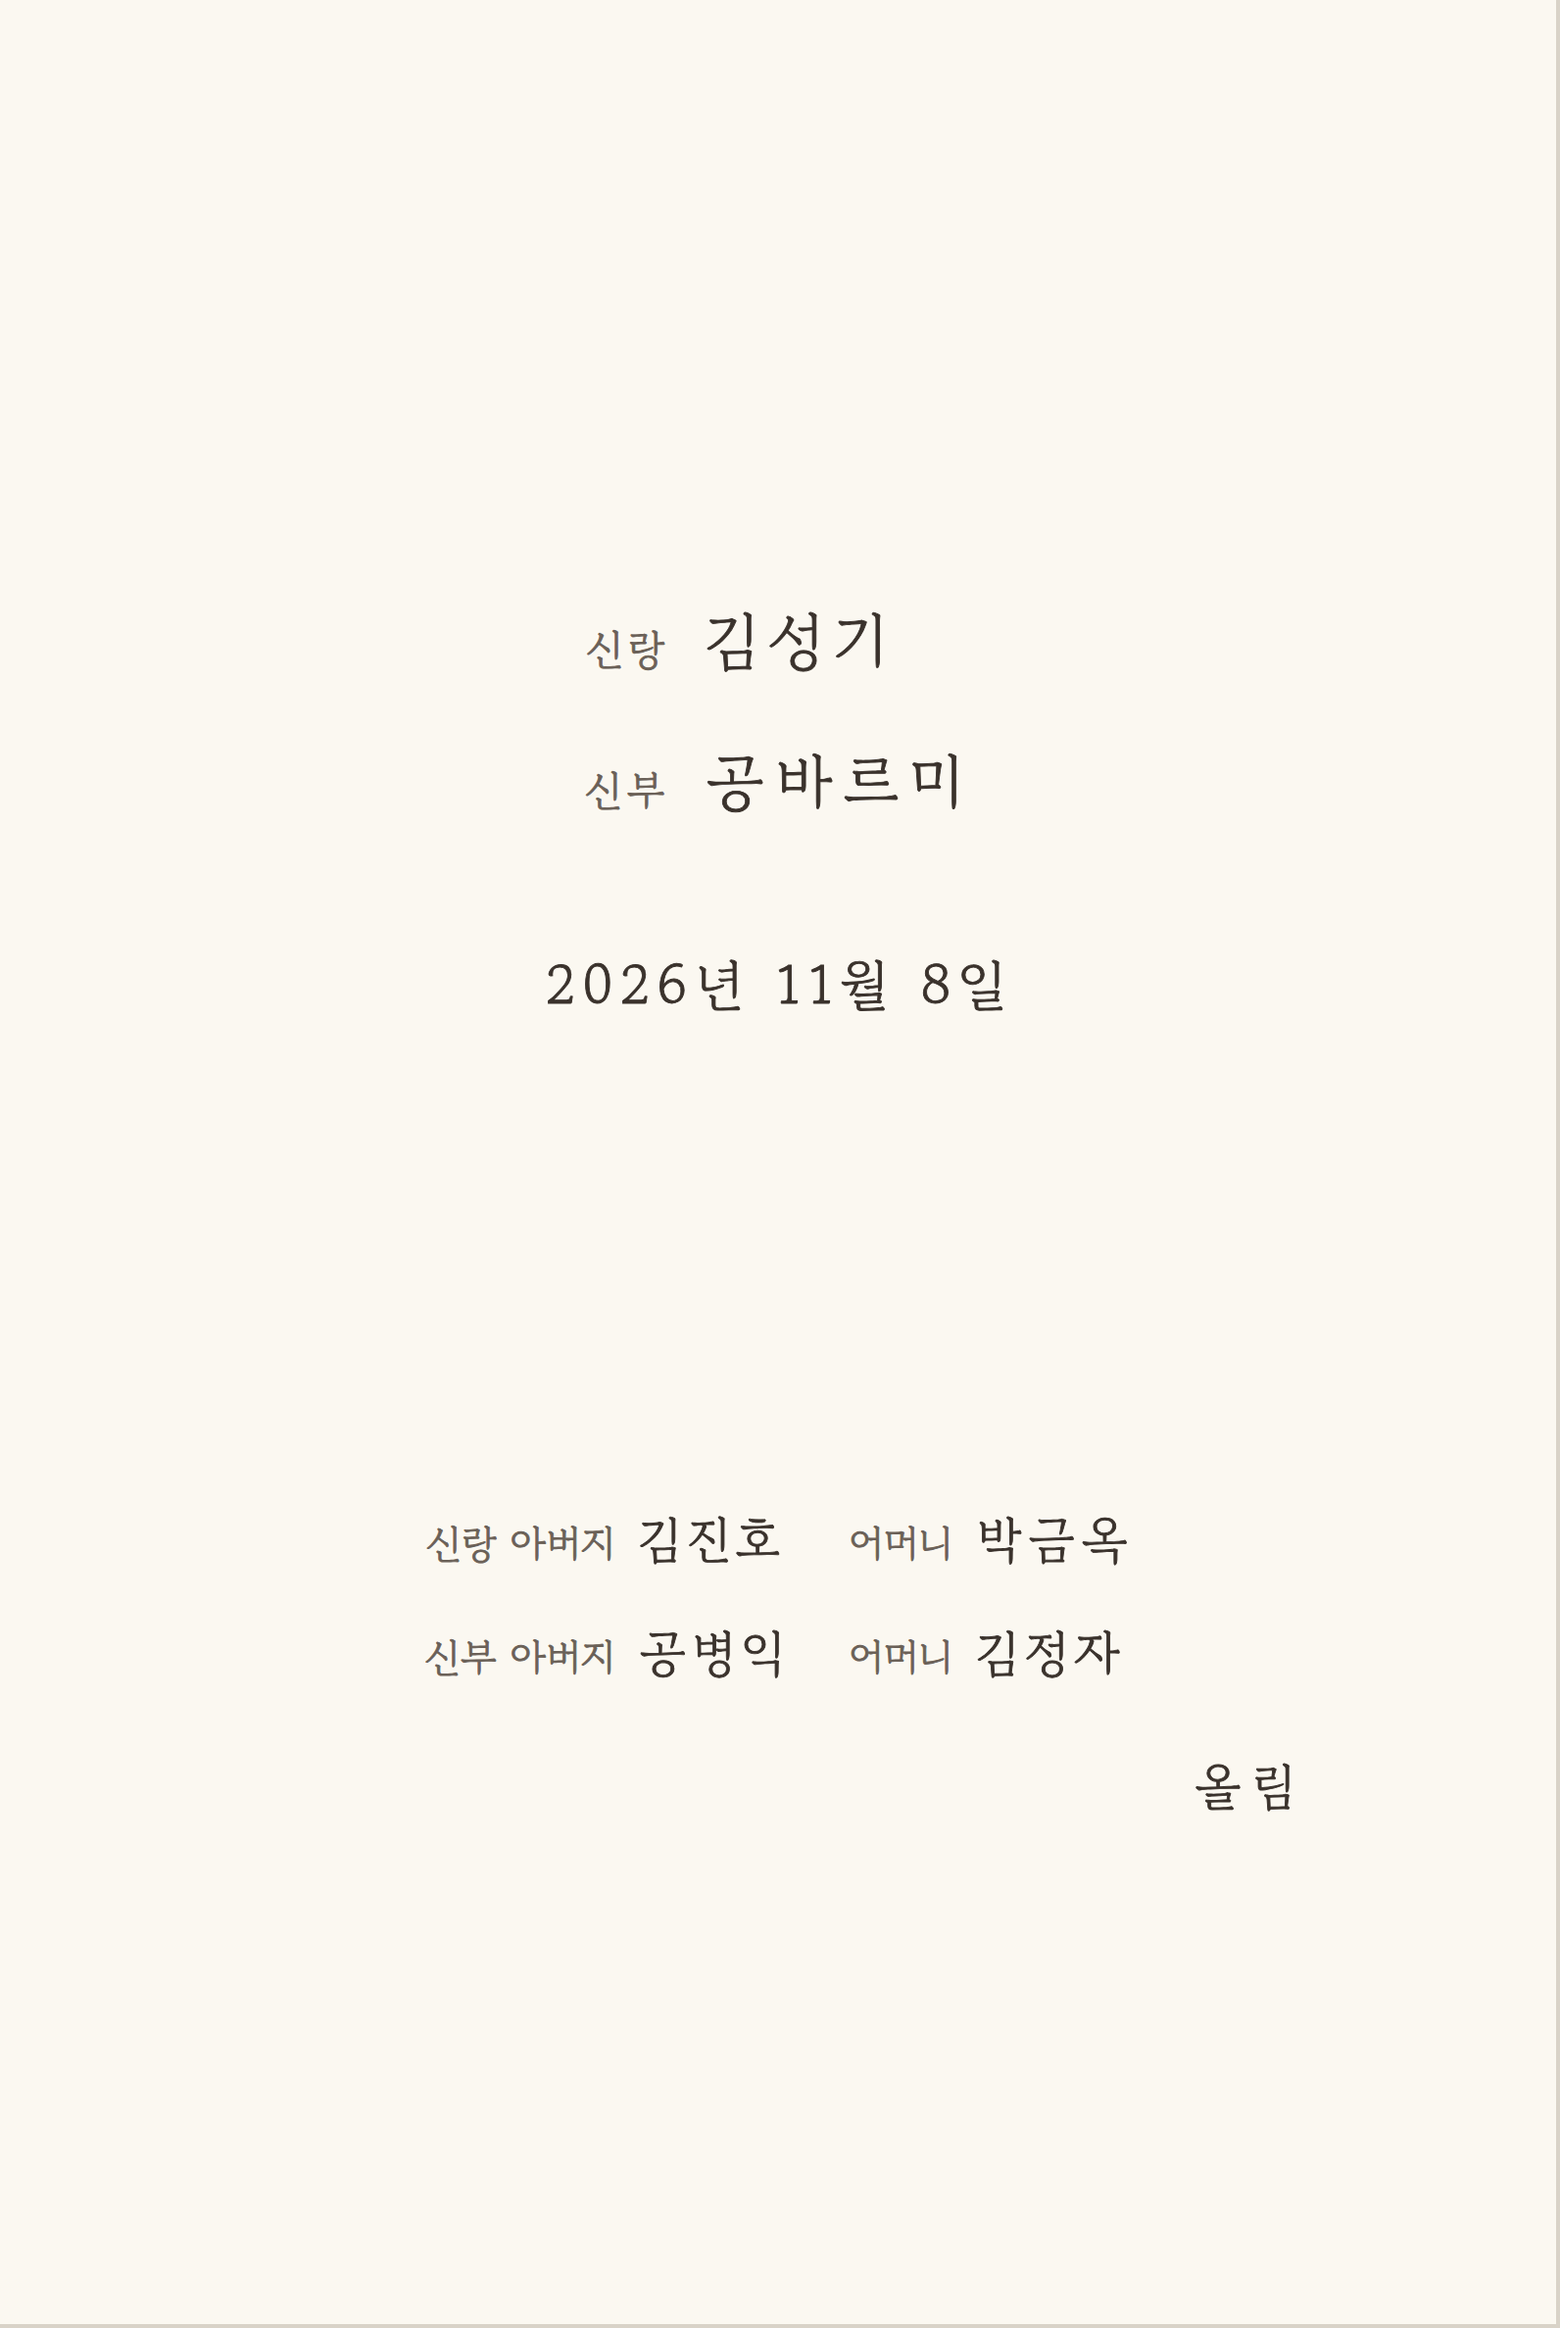
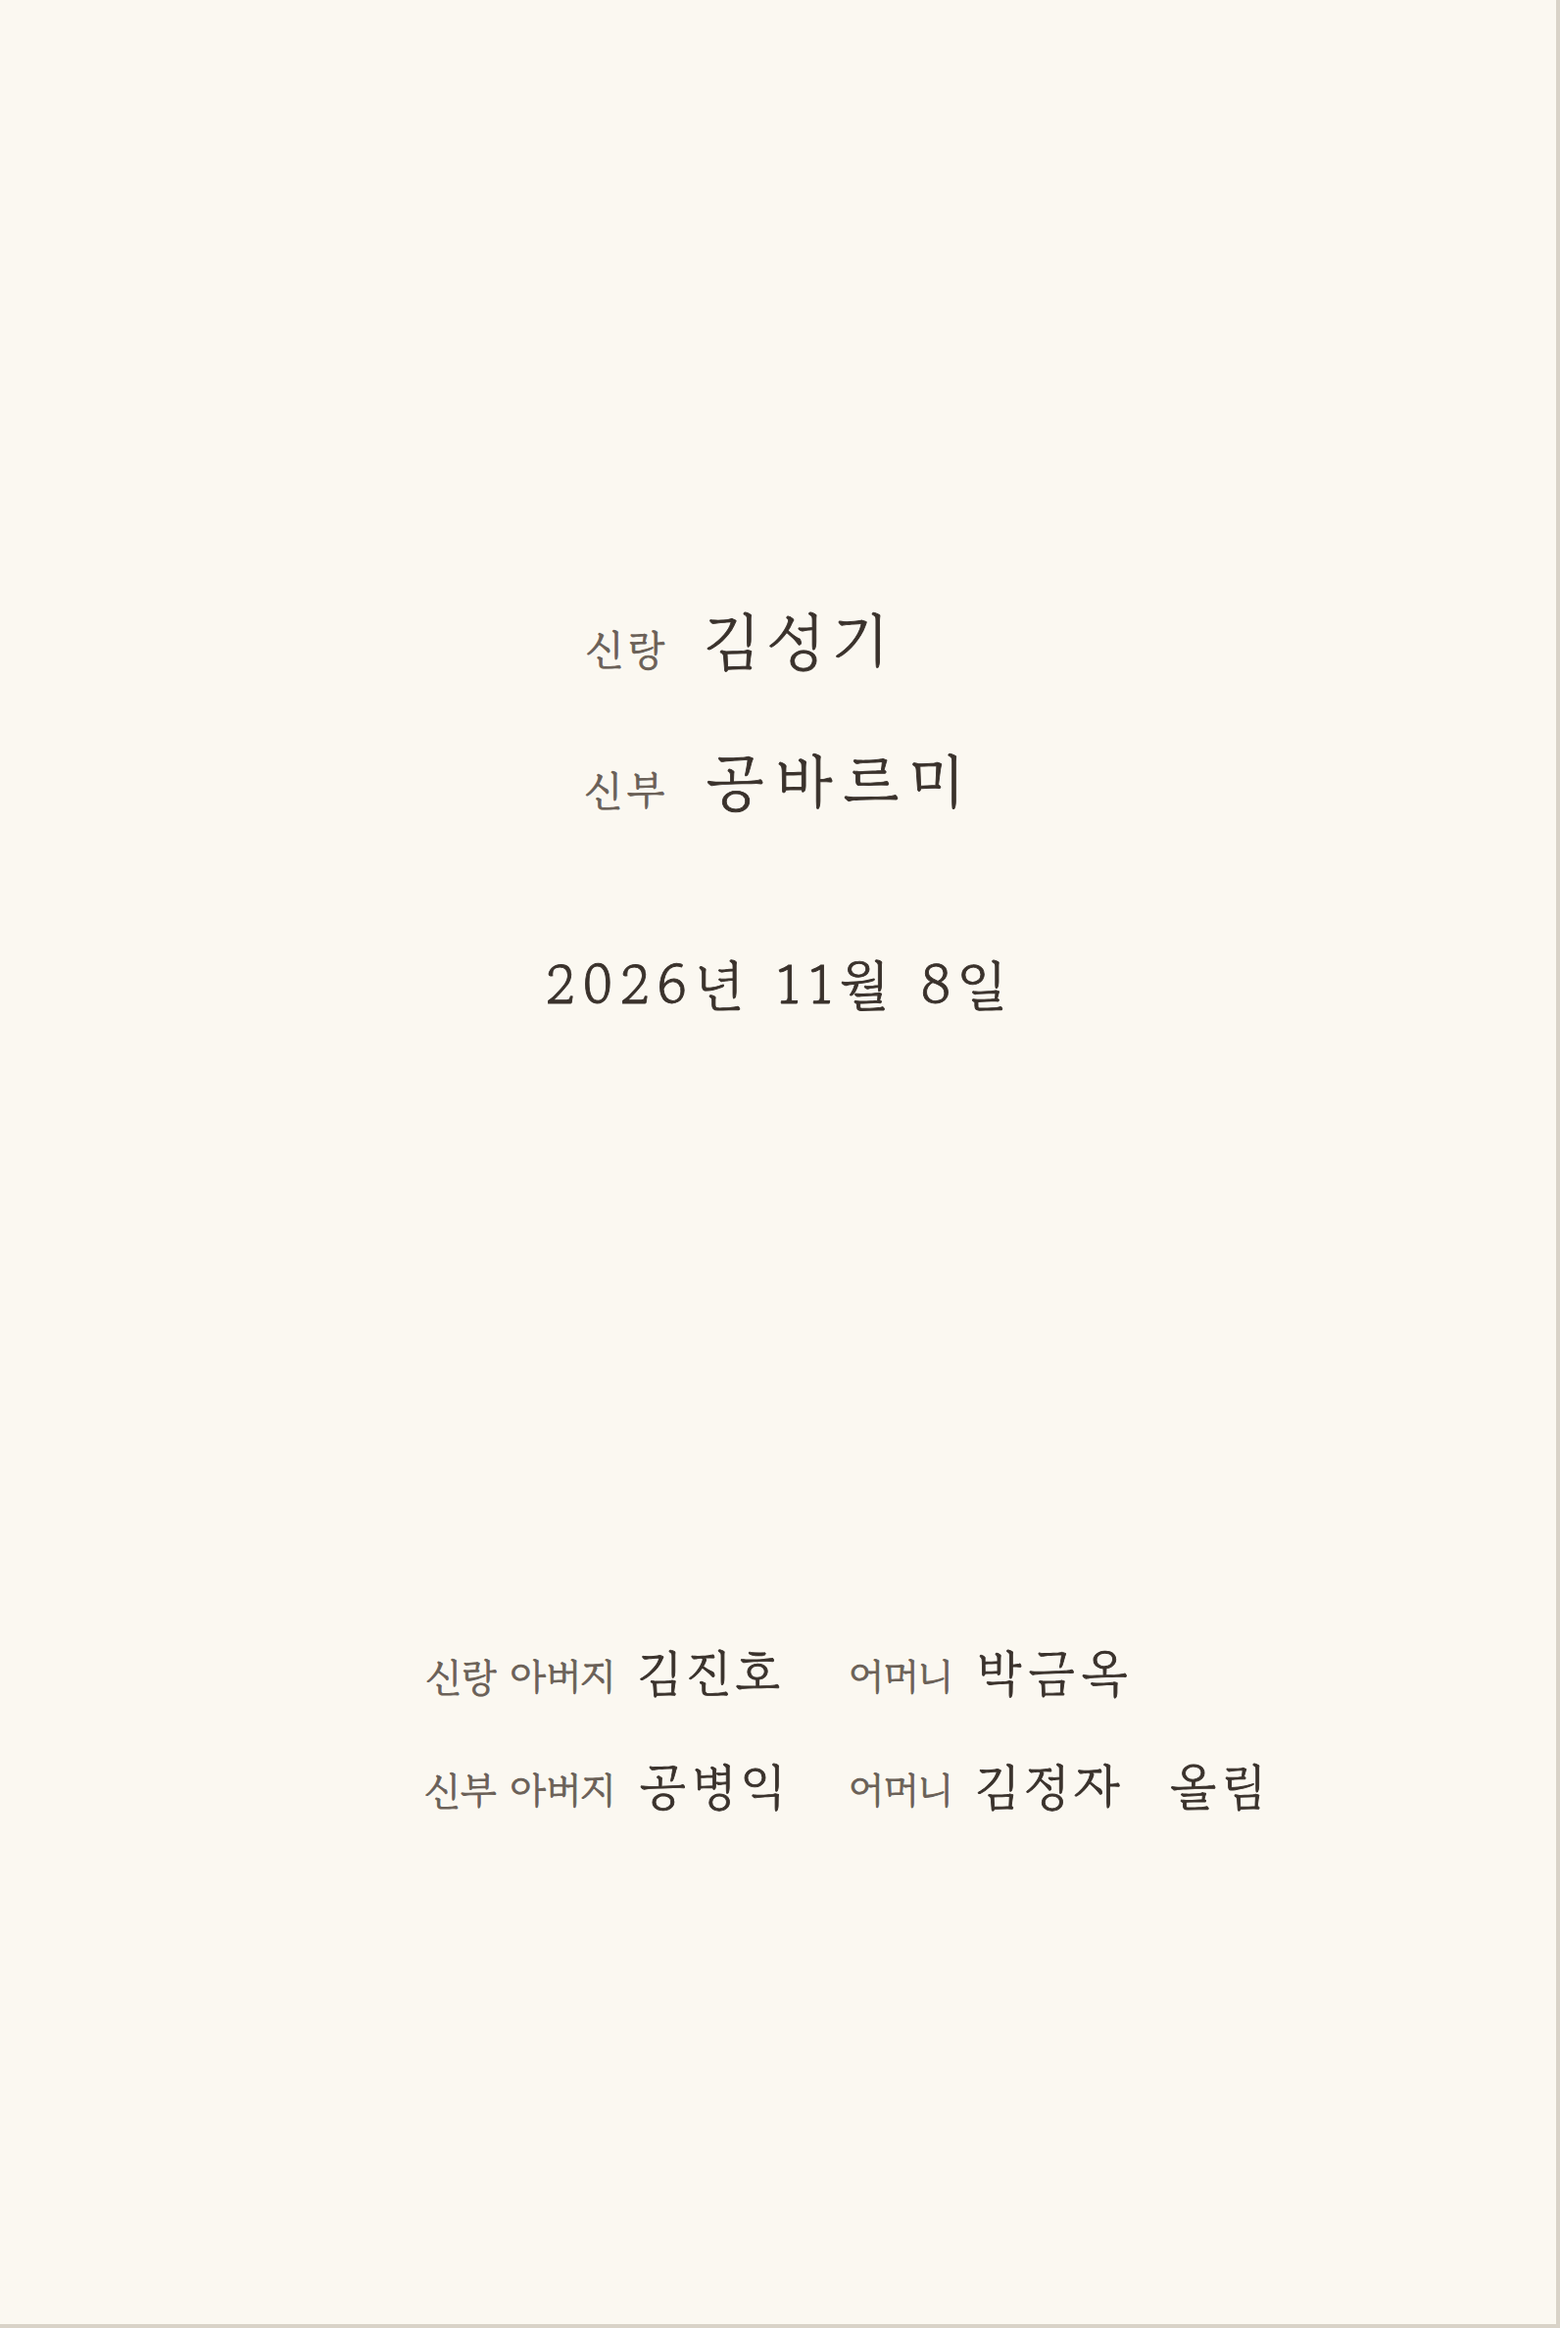
Parents' version: attach 올림 to the end of the signature line
Claude-Session: https://claude.ai/code/session_01H9C5cLBXSHba1oAotnSY9z

Changed region(s): [[0.277, 0.654, 0.4925, 0.7786], [0.554, 0.654, 0.7079, 0.7786], [0.7387, 0.7475, 0.831, 0.7786]]

diff --git a/parents.html b/parents.html
@@ -54,11 +54,12 @@
   .couple .role { font-size: 8pt; color: var(--ink-soft); text-align: right; letter-spacing: .1em; }
   .couple .name { font-size: 12pt; letter-spacing: .16em; text-align: left; }
   .back .date { margin-top: 8mm; font-size: 10.5pt; letter-spacing: .14em; }
-  .hosts { margin-top: auto; display: grid; grid-template-columns: auto auto auto auto; column-gap: 1.6mm; row-gap: 2.6mm; align-items: baseline; }
+  .hosts { position: relative; margin-top: auto; display: grid; grid-template-columns: auto auto auto auto; column-gap: 1.6mm; row-gap: 2.6mm; align-items: baseline; }
   .hosts .rel { font-size: 7.6pt; color: var(--ink-soft); text-align: right; }
   .hosts .nm { font-size: 9.6pt; letter-spacing: .1em; text-align: left; padding-right: 2.4mm; }
   .hosts .nm:last-child, .hosts .nm.end { padding-right: 0; }
-  .sign { margin-top: 4mm; align-self: flex-end; margin-right: 6mm; font-size: 9.6pt; letter-spacing: .2em; }
+  /* 올림은 마지막 이름 뒤에 붙이되, 이름 묶음의 가운데 정렬은 유지 */
+  .hosts .sign { position: absolute; left: 100%; bottom: 0; white-space: nowrap; font-size: 9.6pt; letter-spacing: .1em; padding-left: 2.4mm; }
 
   @page { size: 105mm 157mm; margin: 0; }
   @media print {
@@ -98,9 +99,8 @@
 
       <div class="hosts">
         <span class="rel">신랑 아버지</span><span class="nm">김진호</span><span class="rel">어머니</span><span class="nm end">박금옥</span>
-        <span class="rel">신부 아버지</span><span class="nm">공병익</span><span class="rel">어머니</span><span class="nm end">김정자</span>
+        <span class="rel">신부 아버지</span><span class="nm">공병익</span><span class="rel">어머니</span><span class="nm end">김정자</span><span class="sign">올림</span>
       </div>
-      <div class="sign">올림</div>
     </div>
   </section>
 
